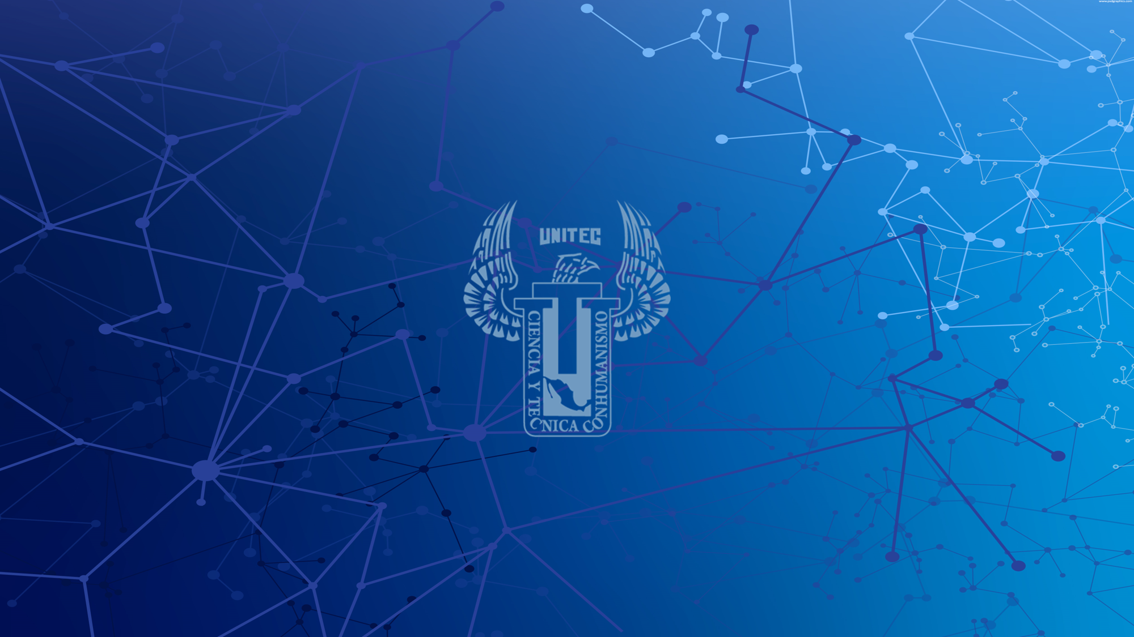
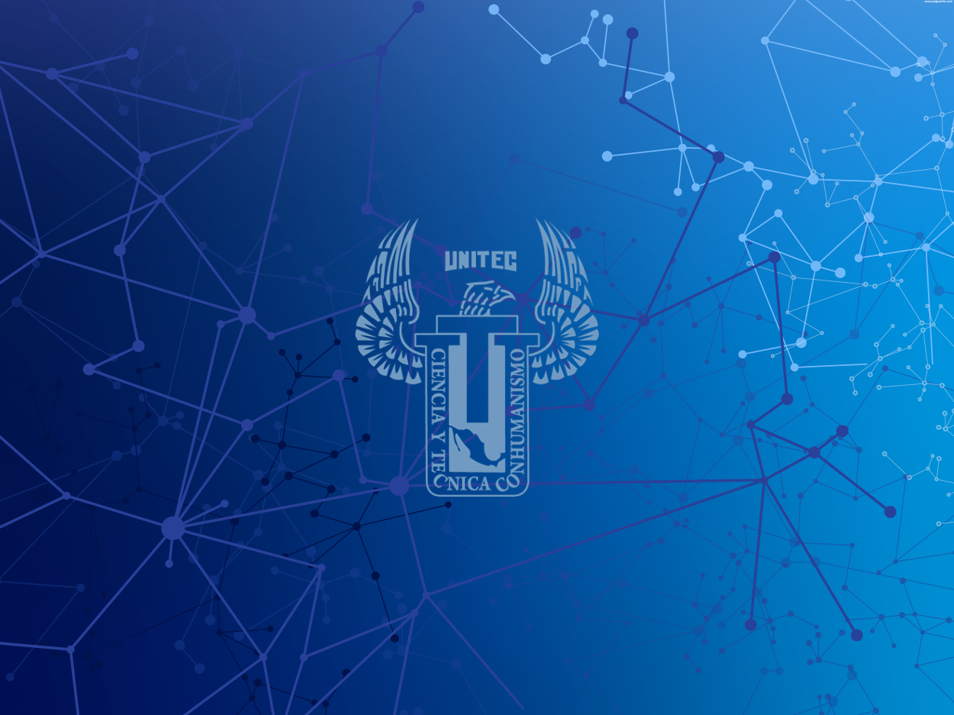
Configurando fondo

Changed region(s): [[0.3648, 0.2983, 0.6384, 0.7159]]

diff --git a/src/pages/sesion/sesion.scss b/src/pages/sesion/sesion.scss
@@ -4,7 +4,7 @@ page-sesion {
         background-color: transparent;
       }
       .bg-image{
-        background-image: url('../assets/imgs/network-background.png');
+        background-image: url('../assets/imgs/imagen4.png');
         background-repeat: no-repeat;
         background-position: center;
         background-size: cover;

diff --git a/src/pages/add-user/add-user.scss b/src/pages/add-user/add-user.scss
@@ -1,6 +1,6 @@
 page-add-user{
     .bg-image{
-        background-image: url('../assets/imgs/network-background.jpg');
+        background-image: url('../assets/imgs/imagen6.png');
         background-repeat: no-repeat;
         background-position: center;
         background-size: cover;
